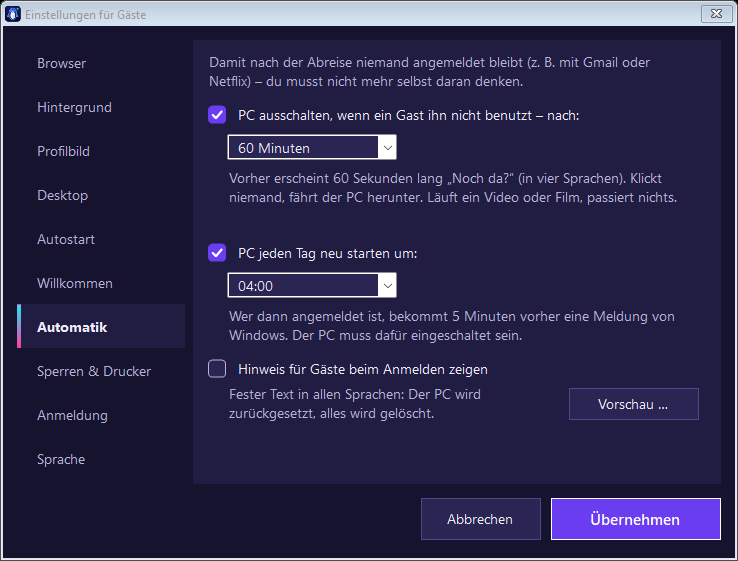
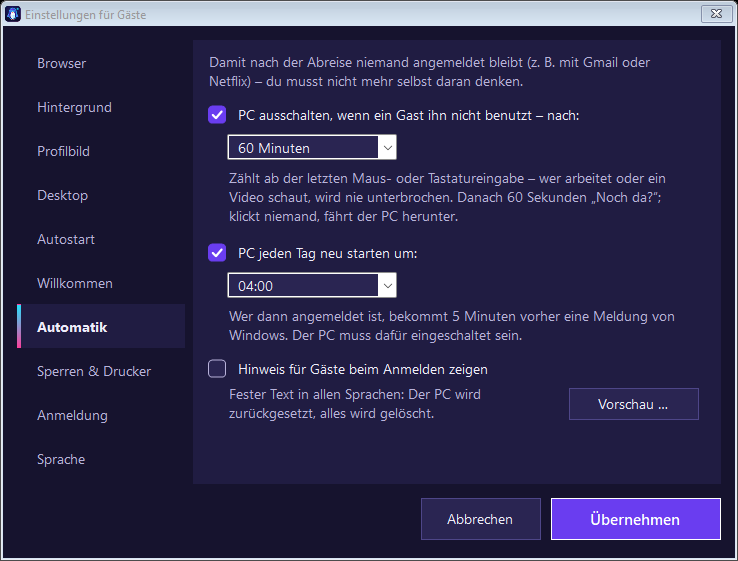
FreshGuest 1.26: clearer description of the idle shutdown

Changed region(s): [[0.3117, 0.303, 0.9038, 0.3939]]

diff --git a/anleitung/vorlage.html b/anleitung/vorlage.html
@@ -208,7 +208,7 @@
   <h3>Automatik</h3>
   <figure><img src="{{BILD:11-einstellungen-abmelden}}" alt="Bereich Automatik"></figure>
   <ul>
-    <li><b>PC ausschalten, wenn ein Gast ihn nicht benutzt:</b> nach 15 Minuten bis 4 Stunden ohne Maus und Tastatur. Vorher erscheint 60 Sekunden lang „Noch da?“ (in vier Sprachen).
+    <li><b>PC ausschalten, wenn ein Gast ihn nicht benutzt:</b> nach 15 Minuten bis 4 Stunden ohne Maus und Tastatur. Die Zeit zählt ab der letzten Eingabe – wer am PC arbeitet, wird nie unterbrochen, egal wie lange. Vorher erscheint 60 Sekunden lang „Noch da?“ (in vier Sprachen).
       Klickt niemand, fährt der PC herunter – beim nächsten Einschalten ist er wieder frisch. Läuft gerade ein Video oder Film, passiert nichts. Gilt nur für Gäste.</li>
     <li><b>PC jeden Tag neu starten</b> zu einer festen Uhrzeit, z. B. 4:00 Uhr. Wer dann angemeldet ist, bekommt 5 Minuten vorher eine Meldung.</li>
     <li><b>Hinweis für Gäste beim Anmelden zeigen:</b> ein kleines Fenster mit festem Text in Deutsch, Italienisch, Englisch und Spanisch: Der PC wird nach jedem Gast zurückgesetzt, alles wird gelöscht.
@@ -396,7 +396,7 @@ reg unload HKLM\FG</pre></div>
   <h3>Automatismi</h3>
   <figure><img src="{{BILD:11-einstellungen-abmelden-it}}" alt="Sezione Automatismi"></figure>
   <ul>
-    <li><b>Spegni il PC se un ospite non lo usa:</b> dopo 15 minuti fino a 4 ore senza mouse e tastiera. Prima appare per 60 secondi «Ci sei ancora?» (in quattro lingue).
+    <li><b>Spegni il PC se un ospite non lo usa:</b> dopo 15 minuti fino a 4 ore senza mouse e tastiera. Il tempo conta dall'ultimo utilizzo – chi lavora al PC non viene mai interrotto, per quanto a lungo. Prima appare per 60 secondi «Ci sei ancora?» (in quattro lingue).
       Se nessuno clicca, il PC si spegne – alla prossima accensione è di nuovo pulito. Se è in corso un video o un film, non succede nulla. Vale solo per gli ospiti.</li>
     <li><b>Riavvia il PC ogni giorno</b> a un orario fisso, ad es. alle 4:00. Chi è connesso riceve un avviso 5 minuti prima.</li>
     <li><b>Mostra un avviso agli ospiti all'accesso:</b> una piccola finestra con testo fisso in tedesco, italiano, inglese e spagnolo: il PC viene ripristinato dopo ogni ospite, tutto viene cancellato.
@@ -585,7 +585,7 @@ reg unload HKLM\FG</pre></div>
   <h3>Automatic</h3>
   <figure><img src="{{BILD:11-einstellungen-abmelden-en}}" alt="Automatic section"></figure>
   <ul>
-    <li><b>Shut the PC down when a guest isn't using it:</b> after 15 minutes up to 4 hours without mouse and keyboard. First “Still there?” appears for 60 seconds (in four languages).
+    <li><b>Shut the PC down when a guest isn't using it:</b> after 15 minutes up to 4 hours without mouse and keyboard. The time counts from the last input – anyone working at the PC is never interrupted, however long. First “Still there?” appears for 60 seconds (in four languages).
       If nobody clicks, the PC shuts down – it is fresh again the next time it is switched on. If a video or film is playing, nothing happens. Applies to guests only.</li>
     <li><b>Restart the PC every day</b> at a fixed time, e.g. 4:00. Whoever is signed in gets a message 5 minutes before.</li>
     <li><b>Show a notice to guests at sign-in:</b> a small window with fixed text in German, Italian, English and Spanish: the PC is reset after every guest, everything is deleted.

diff --git a/src/FreshGuest.cs b/src/FreshGuest.cs
@@ -2633,9 +2633,9 @@ namespace GaesteSchutz
             cbIdle.SelectedIndex = ii < 0 ? 2 : ii;
             t.Controls.Add(cbIdle);
             Indent(AddInfo(t, L.T(
-                "Vorher erscheint 60 Sekunden lang „Noch da?“ (in vier Sprachen). Klickt niemand, fährt der PC herunter. Läuft ein Video oder Film, passiert nichts.",
-                "Prima appare per 60 secondi «Ci sei ancora?» (in quattro lingue). Se nessuno clicca, il PC si spegne. Se è in corso un video o un film, non succede nulla.",
-                "First \"Still there?\" appears for 60 seconds (in four languages). If nobody clicks, the PC shuts down. If a video or film is playing, nothing happens."), 128, 44), 32);
+                "Zählt ab der letzten Maus- oder Tastatureingabe – wer arbeitet oder ein Video schaut, wird nie unterbrochen. Danach 60 Sekunden „Noch da?“; klickt niemand, fährt der PC herunter.",
+                "Conta dall'ultimo uso di mouse o tastiera – chi lavora o guarda un video non viene mai interrotto. Poi 60 secondi «Ci sei ancora?»; se nessuno clicca, il PC si spegne.",
+                "Counts from the last mouse or keyboard input – anyone working or watching a video is never interrupted. Then 60 seconds of \"Still there?\"; if nobody clicks, the PC shuts down."), 128, 66), 32);
 
             string time = GuestExtras.RestartTime(store);
             chkRestart = AddCheck(t, L.T("PC jeden Tag neu starten um:", "Riavvia il PC ogni giorno alle:", "Restart the PC every day at:"), 200, time != null);

diff --git a/README.md b/README.md
@@ -59,7 +59,7 @@ All settings apply to guests only – your own account stays as it is.
 - **Desktop** – files, programs and links every new guest finds on the desktop
 - **Autostart** – open a page or program when a guest signs in
 - **Welcome window** – Wi-Fi name and password; check-out, contact, an extra field of your choice and your own text, each per language (German, Italian, English, Spanish, French, plus one more language of your choice)
-- **Automatic** – shut the PC down when a guest leaves it unused (after a 60-second “Still there?”), restart daily at a fixed time, show a notice that the PC is reset after every guest
+- **Automatic** – shut the PC down when nobody has touched mouse or keyboard for a set time (15 min – 4 h; never while someone is working or a video is playing, and only after a 60-second “Still there?”), restart daily at a fixed time, show a notice that the PC is reset after every guest
 - **Locks & printer** – lock Control Panel / Settings, command prompt, registry editor, installing programs and running programs from Downloads; default printer for guests
 - **Language** – the Windows display language for guests, chosen from the language packs installed on the PC (otherwise guests get the language Windows was installed with); optionally guests first see only flag buttons (German, Italian, English, Spanish – plus French if its language pack is installed) – after picking one, the PC signs out briefly and back in, and the welcome window appears in that language only
 - **Sign-in** – “Guest” is selected automatically; optionally show **only** “Guest” and reach your own account with **Ctrl + Alt + F** on the sign-in screen
